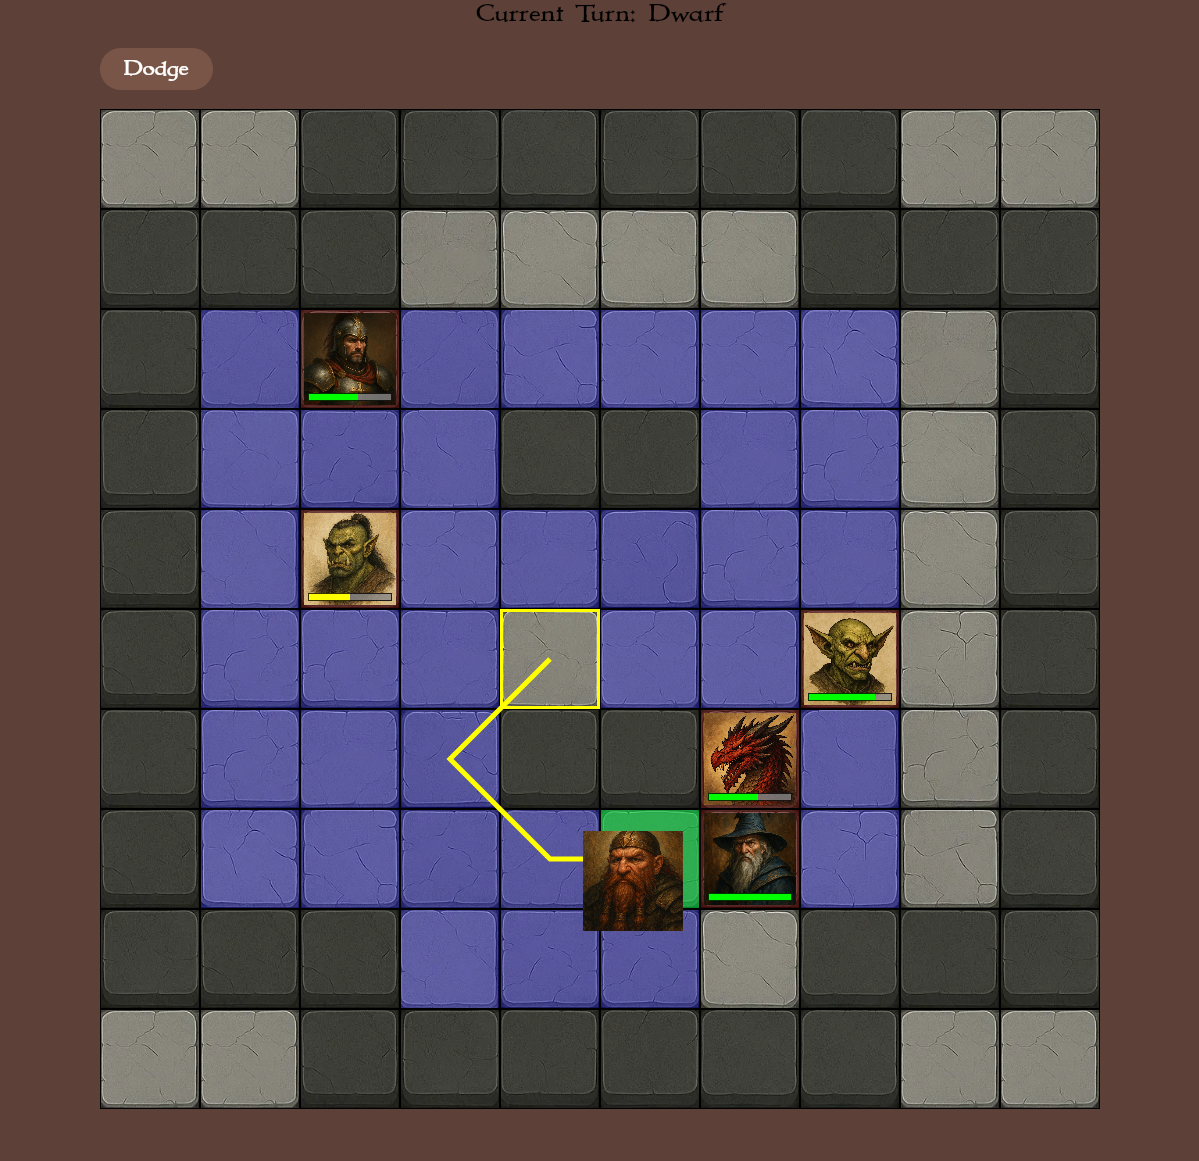
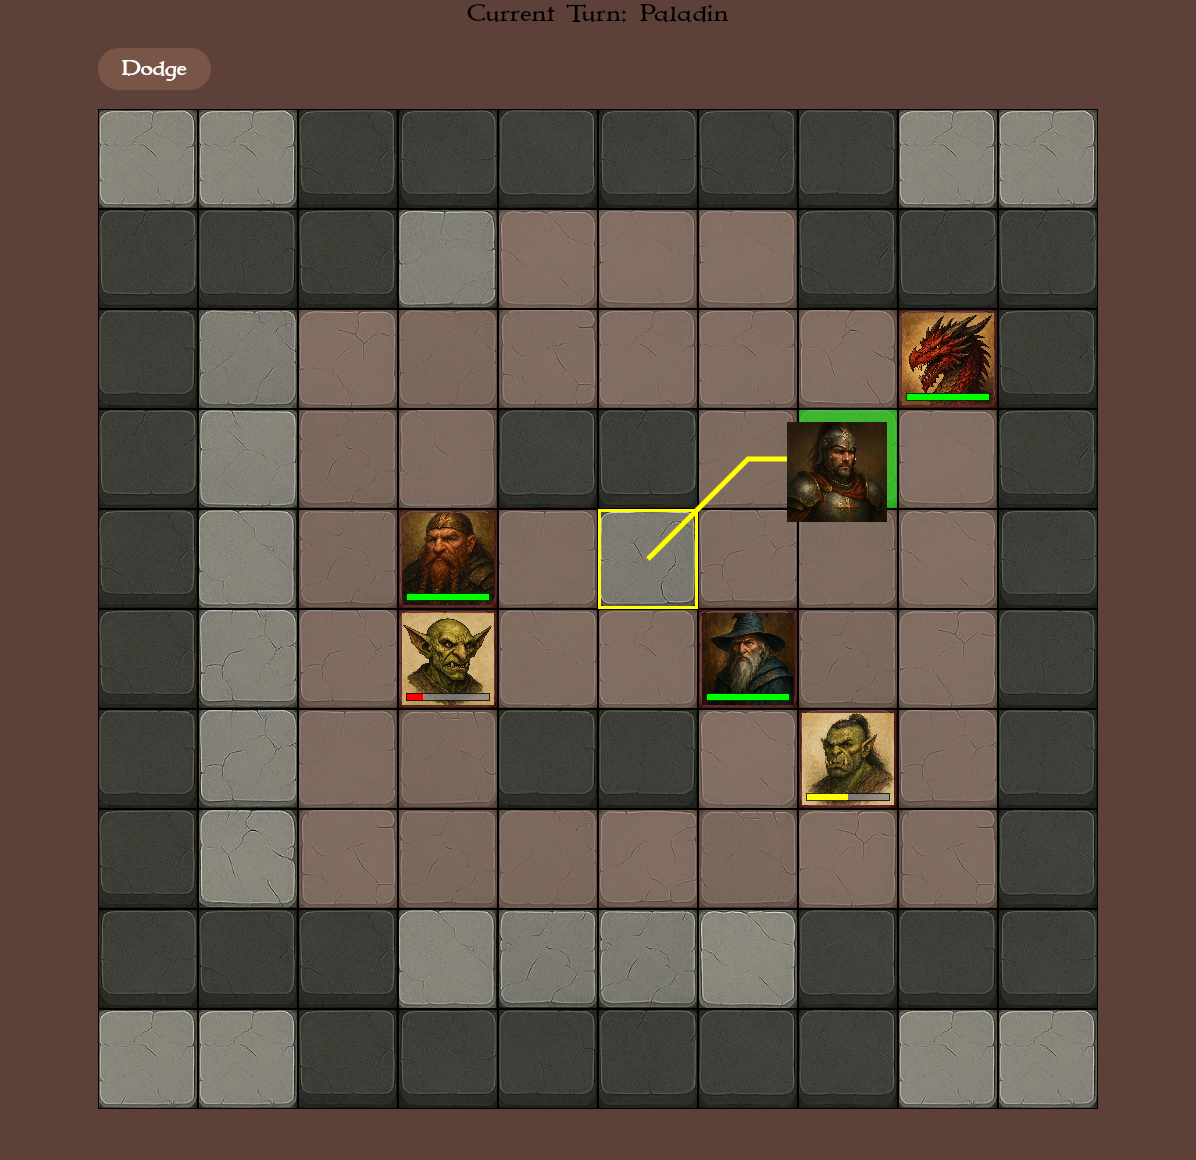
Use color theme for highlighting move rand, update screenshot

diff --git a/composeApp/src/commonMain/kotlin/net/b0n541/combatsimulator/ui/CombatGrid.kt b/composeApp/src/commonMain/kotlin/net/b0n541/combatsimulator/ui/CombatGrid.kt
@@ -340,7 +340,7 @@ private fun GridRow(
                 // Highlight for valid move targets during drag
                 if (isValidMoveTarget) {
                     Box(
-                        modifier = Modifier.fillMaxSize().background(Color.Blue.copy(alpha = 0.3f))
+                        modifier = Modifier.fillMaxSize().background(DarkColorScheme.primary.copy(alpha = 0.5f))
                     )
                 }
 
